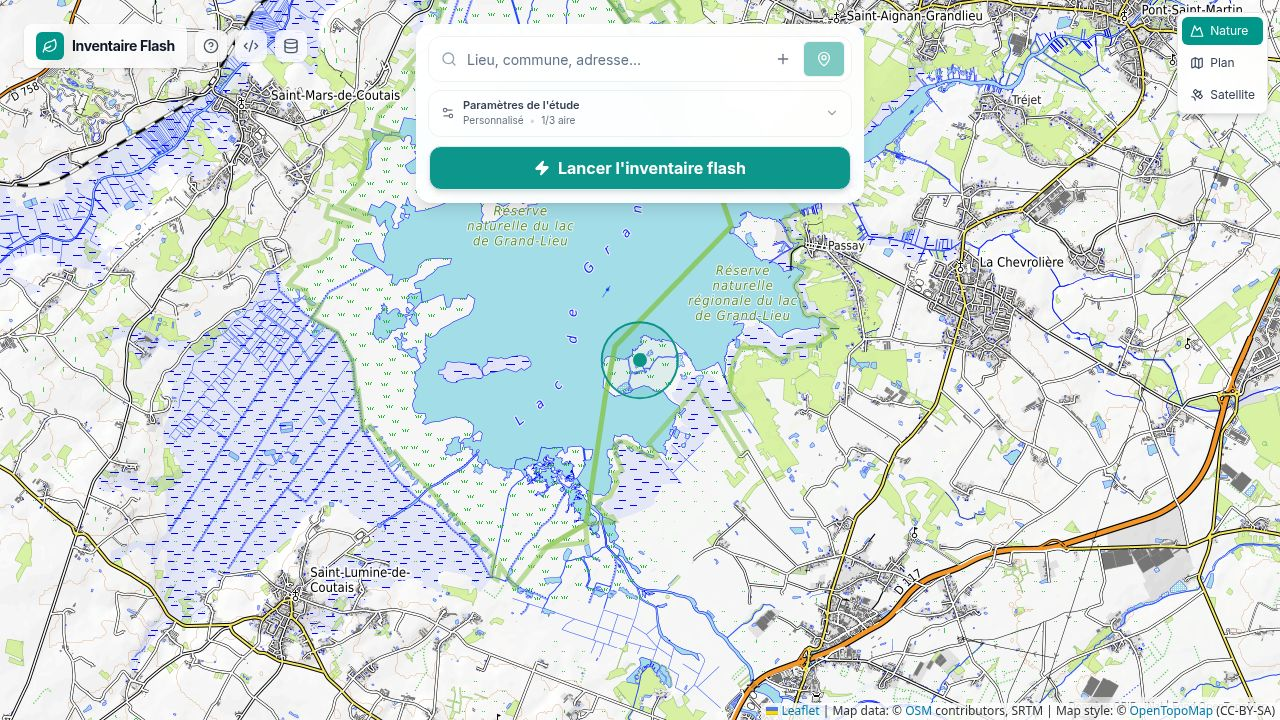
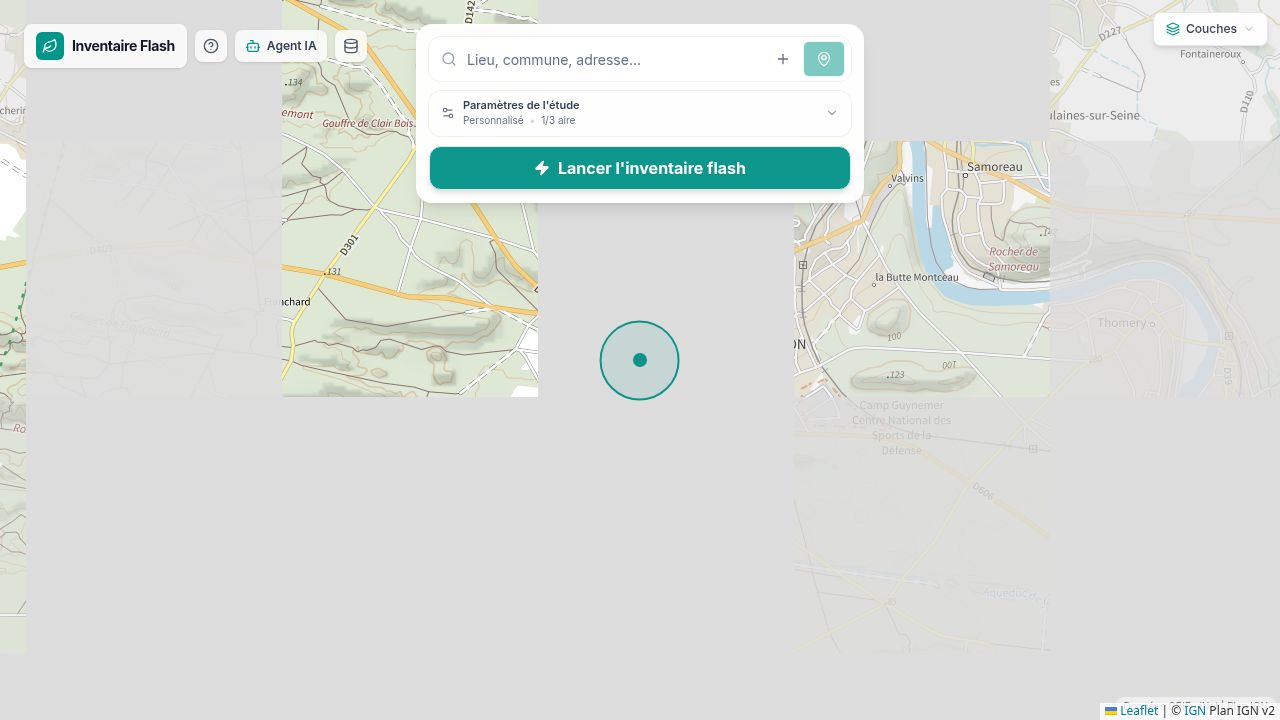
Update the AI agent interface and documentation
Refactors the API dialog to rename the "MCP Server" to "Agent IA", adds comprehensive documentation for connecting various AI clients (Claude, ChatGPT) via the Model Context Protocol (MCP), and updates icons and labels across the application.

Replit-Commit-Author: Agent
Replit-Commit-Session-Id: 968372e9-546c-41ac-8a1b-b525197c030f
Replit-Commit-Checkpoint-Type: full_checkpoint
Replit-Commit-Event-Id: efec44b0-fa40-4861-a0ee-ddb958bb9f6f
Replit-Commit-Screenshot-Url: https://storage.googleapis.com/screenshot-production-us-central1/762f6950-69ba-4f59-9f99-7a8aaf2ae693/968372e9-546c-41ac-8a1b-b525197c030f/hr3wYv0
Replit-Helium-Checkpoint-Created: true

diff --git a/client/src/components/ApiDialog.tsx b/client/src/components/ApiDialog.tsx
@@ -1,6 +1,6 @@
 import { Dialog, DialogContent, DialogHeader, DialogTitle, DialogDescription } from "@/components/ui/dialog";
 import { ScrollArea } from "@/components/ui/scroll-area";
-import { Plug, Copy, Check } from "lucide-react";
+import { Bot, Copy, Check, Sparkles, MessageSquare, Terminal, Lightbulb } from "lucide-react";
 import { useState } from "react";
 
 interface ApiDialogProps {
@@ -98,26 +98,56 @@ export function ApiDialog({ open, onOpenChange }: ApiDialogProps) {
   }
 }`;
 
+  const systemPrompt = `Tu es un assistant naturaliste qui utilise les outils Inventaire Flash pour répondre aux questions de pré-diagnostic écologique en France.
+
+Méthode :
+1. Si l'utilisateur donne un nom de lieu (commune, lieu-dit, adresse), commence par appeler "geocode" pour obtenir lat/lng.
+2. Pour un pré-diagnostic standard, appelle "priority_species_for_location" (rayon 2000 m par défaut) — il combine inventaire GBIF + analyse IA des espèces à enjeux.
+3. Pour une étude d'impact (EIE), utilise "inventory_multi" avec les 3 aires concentriques : immédiate (500 m), rapprochée (2000 m), éloignée (6000 m).
+4. Cite toujours GBIF comme source et rappelle qu'un inventaire flash ne remplace pas un inventaire terrain.
+5. Pour les espèces sensibles, mentionne le statut UICN, la protection nationale, les ZNIEFF déterminantes et les directives Habitats/Oiseaux quand c'est disponible.
+6. Pour des liens régionaux complémentaires, appelle "sinp_links".
+
+Réponds en français, ton professionnel et concis.`;
+
+  const exampleQuestions = [
+    "Fais-moi un pré-diagnostic écologique autour de Saint-Chamas dans un rayon de 2 km",
+    "Quelles sont les espèces à enjeux sur la commune de Porquerolles ?",
+    "Compare les enjeux biodiversité d'un projet éolien à 500 m, 2 km et 6 km autour de 43.55, 5.03",
+    "Donne-moi la fiche détaillée de l'espèce GBIF taxonKey 2492010",
+    "Quelles plateformes SINP couvrent les coordonnées 47.2, -1.5 ?",
+  ];
+
   return (
     <Dialog open={open} onOpenChange={onOpenChange}>
       <DialogContent className="max-w-3xl max-h-[85vh]" data-testid="dialog-api">
         <DialogHeader>
           <DialogTitle className="flex items-center gap-2">
-            <Plug className="h-5 w-5 text-teal-600" />
-            Serveur MCP Inventaire Flash
+            <Bot className="h-5 w-5 text-teal-600" />
+            Agent IA — Inventaire Flash
           </DialogTitle>
           <DialogDescription>
-            Connecte Claude, ChatGPT ou tout client MCP à Inventaire Flash pour interroger la biodiversité depuis une conversation.
+            Connecte Claude, ChatGPT ou tout client compatible MCP à Inventaire Flash pour interroger la biodiversité française depuis une simple conversation.
           </DialogDescription>
         </DialogHeader>
 
         <ScrollArea className="max-h-[65vh] pr-4">
           <div className="space-y-4 text-sm">
+            <div className="bg-teal-50 border border-teal-200 rounded-lg p-3 flex gap-3">
+              <Lightbulb className="h-5 w-5 text-teal-600 shrink-0 mt-0.5" />
+              <div className="text-xs text-teal-900 leading-relaxed">
+                <strong className="block mb-1">Qu'est-ce qu'un agent IA via MCP ?</strong>
+                Le <strong>Model Context Protocol</strong> (MCP) permet à un chatbot (Claude, ChatGPT…) d'utiliser
+                directement les outils d'Inventaire Flash : recherche d'espèces, géocodage, analyse d'enjeux, plateformes SINP…
+                Tu décris ton besoin en langage naturel, l'agent appelle automatiquement les bons outils.
+              </div>
+            </div>
+
             <div className="bg-gray-50 rounded-lg p-3 border border-gray-200">
               <div className="flex items-center justify-between gap-2">
                 <div className="min-w-0">
                   <div className="text-xs font-semibold text-gray-500 uppercase tracking-wider mb-1">
-                    URL du serveur MCP (Streamable HTTP, sans auth)
+                    URL du serveur MCP (Streamable HTTP, sans authentification)
                   </div>
                   <code className="text-xs font-mono text-gray-800 break-all" data-testid="text-mcp-url">{mcpUrl}</code>
                 </div>
@@ -125,42 +155,126 @@ export function ApiDialog({ open, onOpenChange }: ApiDialogProps) {
               </div>
             </div>
 
-            <div className="border border-gray-200 rounded-lg overflow-hidden bg-white">
-              <div className="px-3 py-2 bg-gray-50 border-b border-gray-200 flex items-center gap-2">
-                <span className="text-[10px] font-bold px-2 py-0.5 rounded uppercase tracking-wider bg-purple-100 text-purple-700">
+            <div className="border border-purple-200 rounded-lg overflow-hidden bg-white">
+              <div className="px-3 py-2 bg-purple-50 border-b border-purple-200 flex items-center gap-2">
+                <span className="text-[10px] font-bold px-2 py-0.5 rounded uppercase tracking-wider bg-purple-200 text-purple-800">
                   Claude Desktop
                 </span>
-                <span className="text-xs text-gray-600">Configuration via le pont mcp-remote</span>
+                <span className="text-xs text-gray-700 font-medium">Application macOS / Windows — gratuit</span>
               </div>
-              <div className="p-3 space-y-2">
-                <p className="text-xs text-gray-600 leading-relaxed">
-                  Ajoute ce bloc dans <code className="text-[11px] bg-gray-100 px-1 py-0.5 rounded">claude_desktop_config.json</code>
-                  {" "}(macOS : <code className="text-[11px] bg-gray-100 px-1 py-0.5 rounded">~/Library/Application Support/Claude/</code> · Windows : <code className="text-[11px] bg-gray-100 px-1 py-0.5 rounded">%APPDATA%\Claude\</code>) puis redémarre Claude.
-                </p>
+              <div className="p-3 space-y-2.5">
+                <ol className="text-xs text-gray-700 leading-relaxed list-decimal pl-4 space-y-1">
+                  <li>Ouvre Claude Desktop → menu <strong>Claude → Settings → Developer → Edit Config</strong> (ou édite directement le fichier).</li>
+                  <li>Chemin du fichier <code className="text-[11px] bg-gray-100 px-1 py-0.5 rounded">claude_desktop_config.json</code> :
+                    <ul className="list-disc pl-4 mt-1">
+                      <li>macOS : <code className="text-[11px] bg-gray-100 px-1 py-0.5 rounded">~/Library/Application Support/Claude/</code></li>
+                      <li>Windows : <code className="text-[11px] bg-gray-100 px-1 py-0.5 rounded">%APPDATA%\Claude\</code></li>
+                    </ul>
+                  </li>
+                  <li>Colle le bloc ci-dessous (fusionne avec un éventuel <code className="text-[11px] bg-gray-100 px-1 py-0.5 rounded">mcpServers</code> existant) :</li>
+                </ol>
                 <div className="bg-gray-900 rounded p-2 flex items-start justify-between gap-2">
                   <pre className="text-[11px] font-mono text-green-300 overflow-x-auto whitespace-pre flex-1">{claudeConfig}</pre>
                   <CopyButton text={claudeConfig} />
                 </div>
+                <ol className="text-xs text-gray-700 leading-relaxed list-decimal pl-4 space-y-1" start={4}>
+                  <li>Redémarre Claude Desktop. Le serveur <strong>inventaire-flash</strong> apparaît dans le menu 🔌 (icône d'outils) à côté du champ de saisie.</li>
+                  <li>Pose ta question ! Exemple : <em>« Fais-moi un pré-diagnostic écologique autour de Saint-Chamas »</em>.</li>
+                </ol>
+              </div>
+            </div>
+
+            <div className="border border-emerald-200 rounded-lg overflow-hidden bg-white">
+              <div className="px-3 py-2 bg-emerald-50 border-b border-emerald-200 flex items-center gap-2">
+                <span className="text-[10px] font-bold px-2 py-0.5 rounded uppercase tracking-wider bg-emerald-200 text-emerald-800">
+                  ChatGPT (OpenAI)
+                </span>
+                <span className="text-xs text-gray-700 font-medium">Plus / Pro / Team / Enterprise — connecteur natif</span>
+              </div>
+              <div className="p-3 space-y-2">
+                <ol className="text-xs text-gray-700 leading-relaxed list-decimal pl-4 space-y-1">
+                  <li>Ouvre <strong>ChatGPT → Settings → Connectors</strong> (ou <em>Beta features → Developer Mode</em> selon ta version).</li>
+                  <li>Clique sur <strong>« Add custom connector »</strong> (Ajouter un connecteur personnalisé).</li>
+                  <li>Renseigne :
+                    <ul className="list-disc pl-4 mt-1">
+                      <li>Name : <code className="text-[11px] bg-gray-100 px-1 py-0.5 rounded">Inventaire Flash</code></li>
+                      <li>Description : <em>Pré-diagnostic écologique GBIF / iNaturalist / IUCN pour la France</em></li>
+                      <li>MCP Server URL : l'URL ci-dessus</li>
+                      <li>Authentication : <strong>None</strong></li>
+                    </ul>
+                  </li>
+                  <li>Active le connecteur, puis dans une nouvelle conversation utilise le bouton <strong>« + → Connectors »</strong> et coche <strong>Inventaire Flash</strong>.</li>
+                  <li>Pour un GPT personnalisé permanent : <strong>Explore GPTs → Create</strong>, dans <em>Configure → Actions / Connectors</em> ajoute le même MCP, puis colle le prompt système ci-dessous.</li>
+                </ol>
               </div>
             </div>
 
             <div className="border border-gray-200 rounded-lg overflow-hidden bg-white">
               <div className="px-3 py-2 bg-gray-50 border-b border-gray-200 flex items-center gap-2">
                 <span className="text-[10px] font-bold px-2 py-0.5 rounded uppercase tracking-wider bg-orange-100 text-orange-700">
-                  Claude.ai · ChatGPT · Cursor
+                  Claude.ai (web) · Cursor · autres
                 </span>
               </div>
               <div className="p-3">
-                <p className="text-xs text-gray-600 leading-relaxed">
-                  Ajoute un connector / serveur MCP de type <strong>Streamable HTTP</strong> avec l'URL ci-dessus.
-                  Pas d'authentification requise.
+                <p className="text-xs text-gray-700 leading-relaxed">
+                  <strong>Claude.ai (plan Pro/Team)</strong> : <em>Settings → Integrations → Add custom integration</em>, type <strong>Streamable HTTP</strong>, URL ci-dessus, sans auth.<br />
+                  <strong>Cursor</strong> : <em>Settings → MCP → Add new MCP server</em>, type <strong>HTTP</strong>, URL ci-dessus.<br />
+                  <strong>Autres clients</strong> : tout client supportant le transport <strong>MCP Streamable HTTP</strong> fonctionne.
                 </p>
+              </div>
+            </div>
+
+            <div className="border border-amber-200 rounded-lg overflow-hidden bg-white">
+              <div className="px-3 py-2 bg-amber-50 border-b border-amber-200 flex items-center gap-2">
+                <Sparkles className="h-3.5 w-3.5 text-amber-600" />
+                <span className="text-xs font-semibold text-amber-900">Prompt système recommandé (Custom GPT, Project Claude…)</span>
+              </div>
+              <div className="p-3 space-y-2">
+                <p className="text-xs text-gray-600 leading-relaxed">
+                  Colle ce prompt dans les instructions de ton GPT personnalisé ou de ton Project Claude pour orienter l'agent :
+                </p>
+                <div className="bg-gray-900 rounded p-2 flex items-start justify-between gap-2">
+                  <pre className="text-[11px] font-mono text-amber-200 overflow-x-auto whitespace-pre-wrap flex-1">{systemPrompt}</pre>
+                  <CopyButton text={systemPrompt} />
+                </div>
+              </div>
+            </div>
+
+            <div className="border border-blue-200 rounded-lg overflow-hidden bg-white">
+              <div className="px-3 py-2 bg-blue-50 border-b border-blue-200 flex items-center gap-2">
+                <MessageSquare className="h-3.5 w-3.5 text-blue-600" />
+                <span className="text-xs font-semibold text-blue-900">Exemples de questions à poser à l'agent</span>
+              </div>
+              <div className="p-3 space-y-1.5">
+                {exampleQuestions.map((q, i) => (
+                  <div key={i} className="flex items-start gap-2 text-xs text-gray-700 bg-blue-50/40 rounded px-2 py-1.5">
+                    <span className="text-blue-400 font-mono shrink-0">›</span>
+                    <span className="italic">{q}</span>
+                  </div>
+                ))}
+              </div>
+            </div>
+
+            <div className="border border-gray-200 rounded-lg overflow-hidden bg-white">
+              <div className="px-3 py-2 bg-gray-50 border-b border-gray-200 flex items-center gap-2">
+                <Terminal className="h-3.5 w-3.5 text-gray-500" />
+                <span className="text-xs font-semibold text-gray-700">Test rapide en ligne de commande (curl)</span>
+              </div>
+              <div className="p-3 space-y-2">
+                <p className="text-xs text-gray-600">Vérifie que le serveur MCP répond :</p>
+                <div className="bg-gray-900 rounded p-2 flex items-start justify-between gap-2">
+                  <pre className="text-[11px] font-mono text-cyan-300 overflow-x-auto whitespace-pre flex-1">{`curl -X POST ${mcpUrl} \\
+  -H "Content-Type: application/json" \\
+  -H "Accept: application/json, text/event-stream" \\
+  -d '{"jsonrpc":"2.0","id":1,"method":"tools/list"}'`}</pre>
+                  <CopyButton text={`curl -X POST ${mcpUrl} -H "Content-Type: application/json" -H "Accept: application/json, text/event-stream" -d '{"jsonrpc":"2.0","id":1,"method":"tools/list"}'`} />
+                </div>
               </div>
             </div>
 
             <div>
               <div className="text-xs font-semibold text-gray-500 uppercase tracking-wider mb-2 mt-4">
-                Outils exposés ({TOOLS.length})
+                Les {TOOLS.length} outils que l'agent peut utiliser
               </div>
               <div className="space-y-3">
                 {TOOLS.map((tool) => (

diff --git a/client/src/pages/Home.tsx b/client/src/pages/Home.tsx
@@ -10,7 +10,7 @@ import { searchGBIFMultiCircle, InventoryResult, BufferCircle, STUDY_AREAS, Proj
 import { searchPlace, reverseGeocode } from "@/lib/geocoding";
 import { parseShapefile, ProjectPolygon } from "@/lib/shapefile";
 import { useToast } from "@/hooks/use-toast";
-import { Leaf, HelpCircle, Code2, Database } from "lucide-react";
+import { Leaf, HelpCircle, Bot, Database } from "lucide-react";
 
 function createDefaultCircles(center: [number, number]): BufferCircle[] {
   return STUDY_AREAS.map(area => ({
@@ -369,11 +369,13 @@ export default function Home() {
         <button
           type="button"
           onClick={() => setShowApi(true)}
-          className="bg-white/80 backdrop-blur p-2 rounded-lg cursor-pointer hover:bg-white transition-colors shadow-sm"
-          aria-label="Documentation de l'API"
-          data-testid="button-api"
+          className="flex items-center gap-1.5 bg-white/80 backdrop-blur px-2.5 py-2 rounded-lg cursor-pointer hover:bg-white transition-colors shadow-sm"
+          aria-label="Agent IA — connecter Claude ou ChatGPT"
+          data-testid="button-agent-ia"
+          title="Agent IA — connecter Claude / ChatGPT à Inventaire Flash via MCP"
         >
-          <Code2 className="h-4 w-4 text-gray-600" />
+          <Bot className="h-4 w-4 text-teal-600" />
+          <span className="text-xs font-semibold text-gray-700">Agent IA</span>
         </button>
 
         <button
